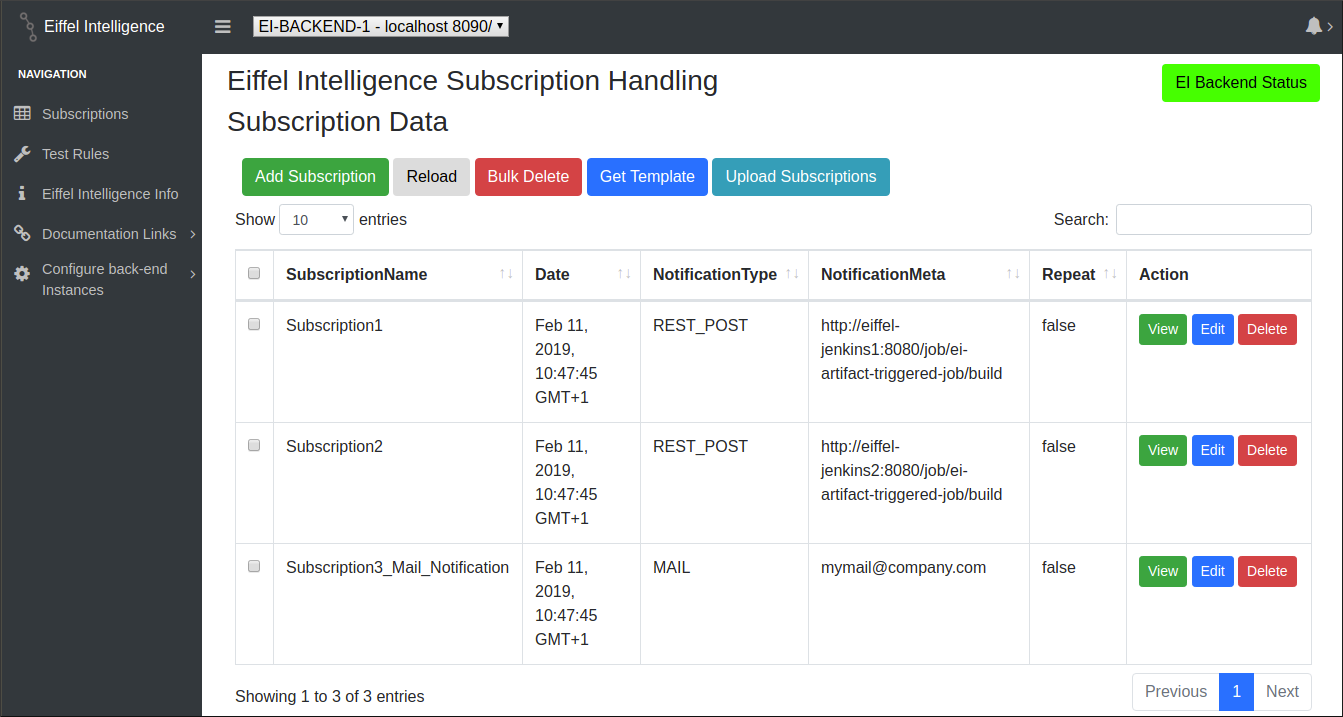
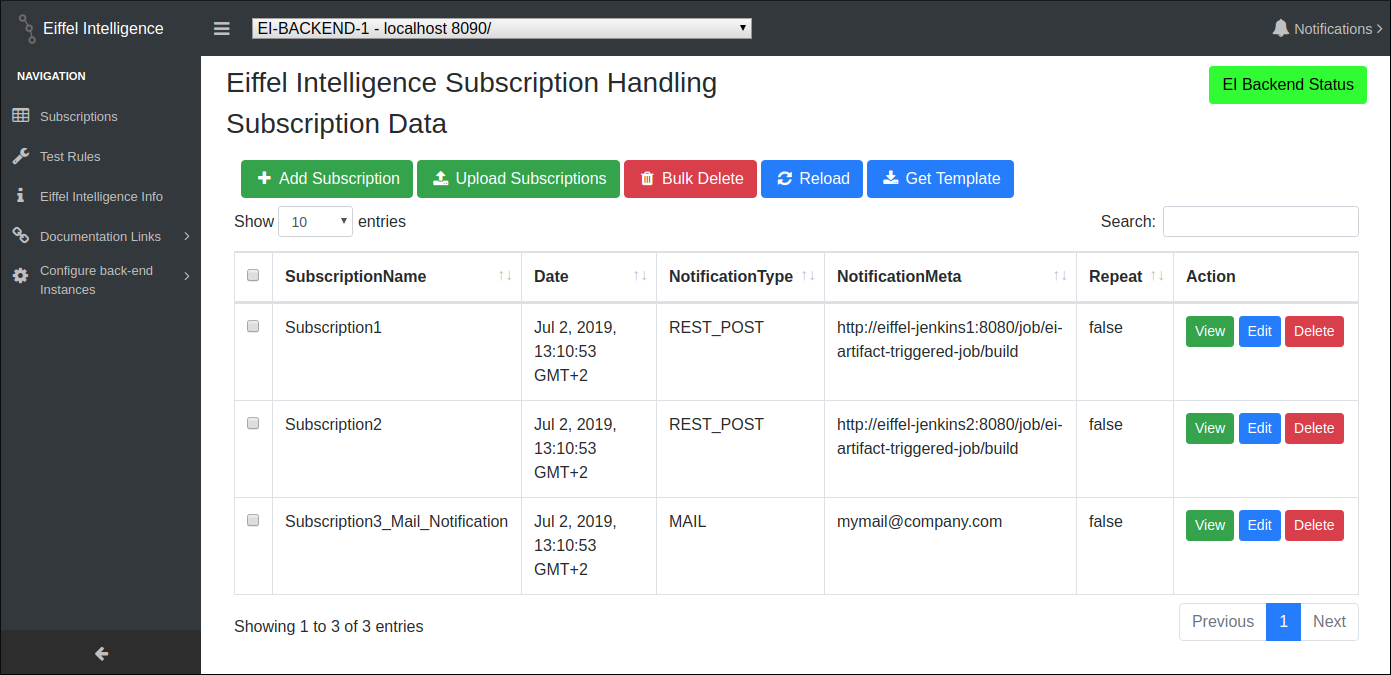
CSS fixes, Image update in wiki, travis file update (#219)
* Some CSS fixes
* Update GUI images in wiki docs
* Single line environment variables in travis

diff --git a/src/main/resources/static/css/ui.css b/src/main/resources/static/css/ui.css
@@ -6,7 +6,6 @@ body {
 .app-header {
     position: fixed;
     display: flex;
-    flex-wrap: wrap;
     align-items: center;
     z-index: 1030;
     width: 100%;
@@ -34,7 +33,7 @@ body {
 }
 .app-header .navbar-logo {
     display: flex;
-    width: 200px;
+    min-width: 200px;
     align-items: center;
     justify-content: flex-start;
     padding-left: 10px;
@@ -48,7 +47,7 @@ body {
 }
 .app-header .header-bar {
     visibility: visible;
-    max-width: 50%;
+    max-width: 500px;
     min-width: 10%;
     outline: 0;
 }
@@ -60,8 +59,9 @@ body {
 }
 .app-header .navbar-nav {
     flex-direction: row;
-    align-items: center;
     padding-left: 10px;
+    min-width: 290px;
+    justify-content: flex-end;
 }
 .app-header .navbar-toggler {
     margin-right: 10px;
@@ -156,9 +156,10 @@ body {
 }
 .app-header .nav-item.dropdown .badge {
     position: absolute;
-    margin-left: -0.8rem;
+    margin-left: -6rem;
     margin-top: -0.4rem;
     font-size: 0.6rem;
+    color: #ffffff;
 }
 .app-header .nav-item.dropdown .dropdown-menu {
     background-clip: border-box;
@@ -203,12 +204,19 @@ body {
 }
 .nav-link {
     padding: 0;
-    padding-right: 10px !important;
+    padding-right: 5px !important;
 }
 .nav-link:focus {
     outline: 0;
 }
 .nav-link:hover .fa {
+    color: #fff;
+}
+.nav-link > span {
+    color: #c1c1c1;
+    font-size: 90%;
+}
+.nav-link:hover > span{
     color: #fff;
 }
 .nav-item.dropdown .nav-link[aria-expanded="true"] .fa {
@@ -220,15 +228,17 @@ body {
     top: 0.6rem;
 }
 .nav-item.dropdown .nav-link[aria-expanded="false"]:after {
+    display: inline-block;
+    width: 10px;
     color: #c1c1c1;
-    width: auto;
     content: '\f105';
     border: none;
     font-family: 'FontAwesome';
 }
 .nav-item.dropdown .nav-link[aria-expanded="true"]:after {
+    display: inline-block;
+    width: 10px;
     color: #fff;
-    width: auto;
     content: '\f107';
     border: none;
     font-family: 'FontAwesome';
@@ -409,9 +419,6 @@ body {
 }
 
 @media (max-width: 767.98px) {
-    .app-header .header-bar {
-        max-width: 100%;
-    }
     .app-body .sidebar {
         margin-left: -200px;
     }
@@ -428,9 +435,10 @@ body {
         margin-left: 200px;
     }
     .app-header {
+        flex-wrap: wrap;
         align-items: flex-start;
         height: 80px;
-        padding-top: 15px;
+        padding-top: 5px;
     }
     .app-header.header-bar-hidden {
         height: 55px;
@@ -450,16 +458,20 @@ body {
     }
     .app-header .navbar-toggler {
         order: 1;
+        align-self: center;
+        margin-right: 0;
     }
     .app-header .header-bar {
         order: 4;
         align-self: flex-end;
         max-width: 100%;
         width: 100%;
-        margin: 0 10px 10px 10px;
+        margin: 0 10px 5px 10px;
     }
     .app-header .navbar-nav {
         order: 3;
+        align-self: center;
+        min-width: 0;
     }
     .app-header .nav-item.dropdown .dropdown-menu {
         position: fixed !important;
@@ -470,6 +482,9 @@ body {
         border-radius: 0;
         background-color: #2f353a;
         transform: none !important;
+    }
+    .app-header .nav-item.dropdown .nav-link > span:first-of-type {
+        display: none;
     }
     .app-header .nav-item.dropdown .dropdown-menu .dropdown-header {
         border-radius: 0.25rem 0.25rem 0 0;
@@ -507,6 +522,9 @@ body {
         height: 100%;
         content: "";
         background: rgba(0,0,0,.75);
+    }
+    .app-header .nav-item.dropdown .badge {
+        margin-left: -0.8rem;
     }
 }
 

diff --git a/src/main/resources/templates/index.html b/src/main/resources/templates/index.html
@@ -40,7 +40,7 @@
         <a class="nav-link" id="alertsLink" data-toggle="dropdown" href="#" role="button" aria-haspopup="true"
           aria-expanded="false">
           <i class="fa fa-bell" aria-hidden="true"></i>
-          <span class="top-nav-bar-text">Notifications</span>
+          <span>Notifications</span>
           <span class="badge badge-pill badge-danger" data-bind="visible: $root.newMessagesLength() > 0, text: $root.newMessagesLength()"></span>
         </a>
         <div class="alert-menu dropdown-menu">
@@ -67,7 +67,7 @@
       <li class="nav-item dropdown" id="userItem">
         <a class="nav-link" data-toggle="dropdown" href="#" role="button" aria-haspopup="true" aria-expanded="false">
           <i id="login-nav-bar-icon" class="fa fa-user-circle" aria-hidden="true"></i>
-          <span id="login-nav-bar-text" class="top-nav-bar-text"></span>
+          <span id="login-nav-bar-text"></span>
         </a>
         <div class="user-menu dropdown-menu">
           <div class="dropdown-header text-center">

diff --git a/src/main/resources/static/css/style.css b/src/main/resources/static/css/style.css
@@ -20,11 +20,6 @@
 .card-standard {
     width: 25rem;
 }
-.top-nav-bar-text{
-    color: #c1c1c1;
-    padding-left: 0px;
-    font-size: 90%;
-}
 .sticky-button-bar{
     position: -webkit-sticky; /* Safari */
     position: sticky;

diff --git a/wiki/markdown/subscription-handling.md b/wiki/markdown/subscription-handling.md
@@ -12,16 +12,16 @@ the Eiffel Intelligence front-end, once the authentication (if enabled) is done.
 #### _Add Subscription_
 This button opens a form with a number of fields to create a subscription
 through subscription endpoint (POST /subscriptions).
-#### _Reload_
-This button reloads the data from the database and refresh the data in the
-subscription table
+#### _Upload Subscriptions_
+This button help uploads a subscription by opening a file explorer
 #### _Bulk Delete_
 This button deletes all the selected subscriptions in the table from the
 database.
+#### _Reload_
+This button reloads the data from the database and refresh the data in the
+subscription table
 #### _Get Template_
 This button downloads a subscription template
-#### _Upload Subscriptions_
-This button help uploads a subscription by opening a file explorer
 #### _EI Back-end Status_
 This button indicates, through its color, whether a back-end instance is
 connected with front-end or not. The green color means back-end is connected
